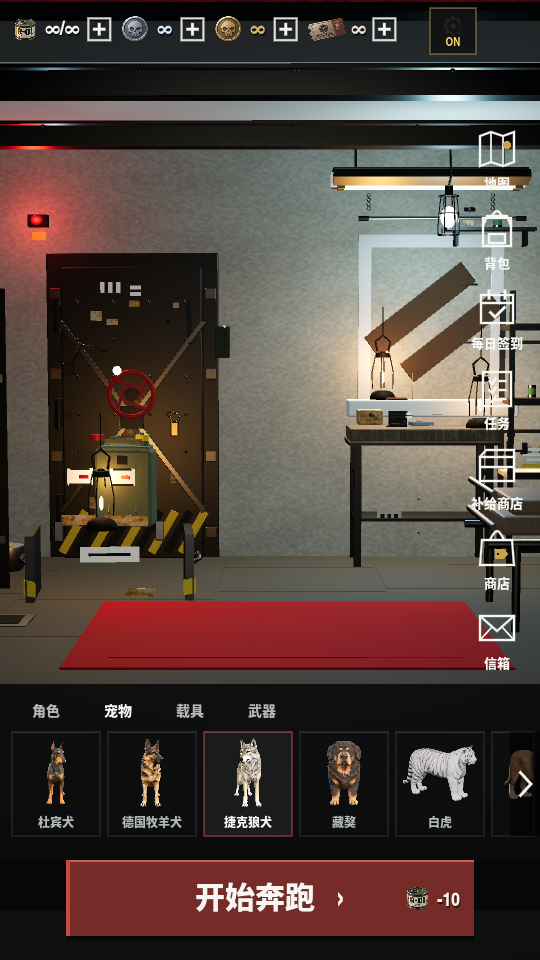
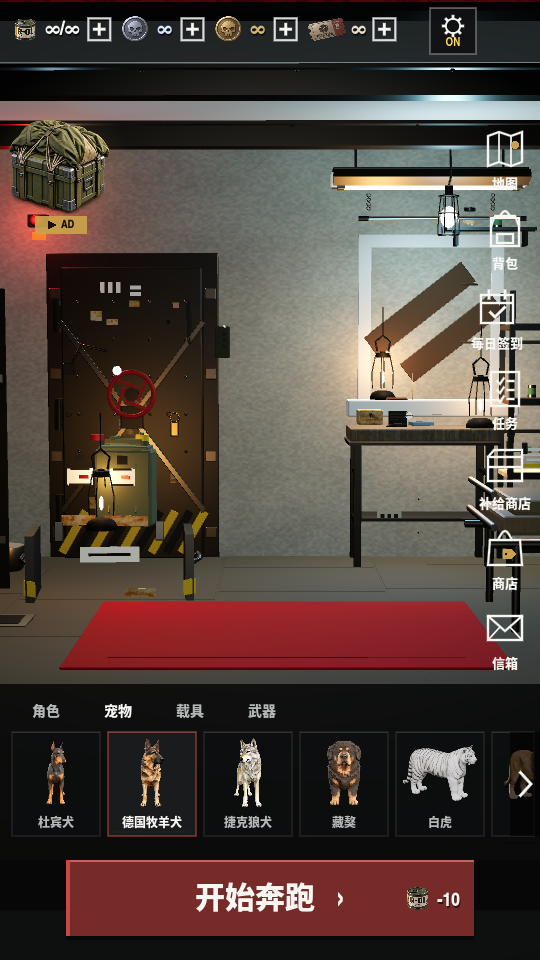
style(lobby): gear renders white through the clean layer, right column sits on the screen edge

diff --git a/tools/gear_layer_patch.py b/tools/gear_layer_patch.py
@@ -1,0 +1,44 @@
+import io
+
+ROOT = r"C:\Users\user\Documents\kimi\tasks\2026-11-06\12-50-12-52283f1e\df-backup"
+
+# 1) the gear icon must go through clean_ops, otherwise the panel painted after it hides it
+p = ROOT + r"\scripts\hud.gd"
+h = io.open(p, encoding="utf-8").read()
+
+old = '''func _gear_icon(c: Vector2,k:=1.0,tint: Color=WHITE) -> void:
+	draw_arc(c,13*k,0,TAU,24,tint,3.0*k)
+	for i in range(8):
+		var a:=i*TAU/8.0
+		draw_line(c+Vector2(cos(a),sin(a))*13*k,c+Vector2(cos(a),sin(a))*19*k,tint,5.0*k)
+	draw_circle(c,5*k,tint)'''
+
+new = '''func _gear_icon(c: Vector2,k:=1.0,tint: Color=WHITE) -> void:
+	# drawn through the clean layer: an immediate draw_arc sits BEHIND the panel fill and the
+	# white gear comes out grey
+	var ring := PackedVector2Array()
+	for i in range(25):
+		var a := TAU * float(i) / 24.0
+		ring.append(c + Vector2(cos(a), sin(a)) * 13.0 * k)
+	clean_ops.append(["line", ring, tint, 3.0 * k])
+	for i in range(8):
+		var a:=i*TAU/8.0
+		clean_ops.append(["line", PackedVector2Array([c+Vector2(cos(a),sin(a))*13*k,c+Vector2(cos(a),sin(a))*19*k]), tint, 5.0*k])
+	clean_ops.append(["circle", c, 5.0 * k, tint])'''
+
+assert h.count(old) == 1, h.count(old)
+h = h.replace(old, new, 1)
+io.open(p, "w", encoding="utf-8", newline="\n").write(h)
+print("gear icon routed through clean_ops")
+
+# 2) push the right-hand column to the screen edge
+p2 = ROOT + r"\scripts\main_3d.gd"
+t = io.open(p2, encoding="utf-8").read()
+moved = 0
+for y in (118, 198, 358, 438, 518, 598):
+    old_r = "Rect2(464,%d,70,76)" % y
+    if old_r in t:
+        t = t.replace(old_r, "Rect2(470,%d,70,76)" % y)
+        moved += 1
+io.open(p2, "w", encoding="utf-8", newline="\n").write(t)
+print("side icons moved to x=470:", moved)

diff --git a/tools/gear_white_patch.py b/tools/gear_white_patch.py
@@ -1,0 +1,29 @@
+import io
+
+ROOT = r"C:\Users\user\Documents\kimi\tasks\2026-11-06\12-50-12-52283f1e\df-backup"
+
+# 1) the settings gear reads as an outline button: white border, white gear
+p = ROOT + r"\scripts\hud.gd"
+h = io.open(p, encoding="utf-8").read()
+old = '''func _lobby_settings_gear(r: Rect2) -> void:
+	_panel(r, Color(0.06,0.07,0.075,0.92), Color(0.55,0.57,0.58,0.9), 1)
+	_gear_icon(r.get_center(), 0.62, Color(0.86,0.87,0.88))'''
+new = '''func _lobby_settings_gear(r: Rect2) -> void:
+	_panel(r, Color(0.06,0.07,0.075,0.92), WHITE, 1)
+	_gear_icon(r.get_center(), 0.62, WHITE)'''
+assert h.count(old) == 1, h.count(old)
+h = h.replace(old, new, 1)
+io.open(p, "w", encoding="utf-8", newline="\n").write(h)
+print("settings gear is white")
+
+# 2) right column lines up with the gear's right edge (534)
+p2 = ROOT + r"\scripts\main_3d.gd"
+t = io.open(p2, encoding="utf-8").read()
+replaced = 0
+for y in (118, 198, 358, 438, 518, 598):
+    old_r = "Rect2(462,%d,70,76)" % y
+    if old_r in t:
+        t = t.replace(old_r, "Rect2(464,%d,70,76)" % y)
+        replaced += 1
+io.open(p2, "w", encoding="utf-8", newline="\n").write(t)
+print("side icons shifted to the gear edge:", replaced)

diff --git a/tools/gear_white2.py b/tools/gear_white2.py
@@ -1,0 +1,24 @@
+import io
+
+p = r"C:\Users\user\Documents\kimi\tasks\2026-11-06\12-50-12-52283f1e\df-backup\scripts\hud.gd"
+h = io.open(p, encoding="utf-8").read()
+
+old = '''func _gear_button(r: Rect2,on: bool) -> void:
+	var tint: Color = Color(1.0,0.86,0.4) if on else Color(0.45,0.46,0.47)
+	_panel(r,Color(0.06,0.065,0.07,0.9) if on else Color(0.03,0.032,0.035,0.75),tint,1)
+	_gear_icon(r.get_center()+Vector2(0,-5),0.55,tint)
+	var label: String = "ON" if on else "OFF"
+	_text_center(label,Vector2(r.get_center().x,r.end.y-8),11,tint)'''
+
+new = '''func _gear_button(r: Rect2,on: bool) -> void:
+	# the ring and the gear stay white like the settings button; only the ON/OFF label carries
+	# the equipped state
+	_panel(r,Color(0.06,0.065,0.07,0.9) if on else Color(0.05,0.052,0.055,0.85),WHITE,1)
+	_gear_icon(r.get_center()+Vector2(0,-5),0.55,WHITE)
+	var label: String = "ON" if on else "OFF"
+	_text_center(label,Vector2(r.get_center().x,r.end.y-8),11,Color(1.0,0.86,0.4) if on else Color(0.62,0.63,0.64))'''
+
+assert h.count(old) == 1, h.count(old)
+h = h.replace(old, new, 1)
+io.open(p, "w", encoding="utf-8", newline="\n").write(h)
+print("gear toggles are white")
